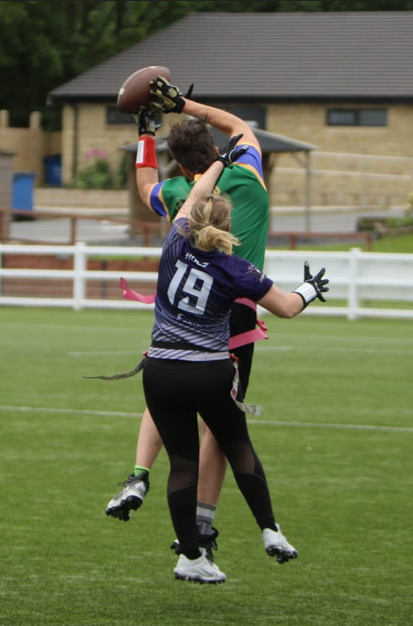
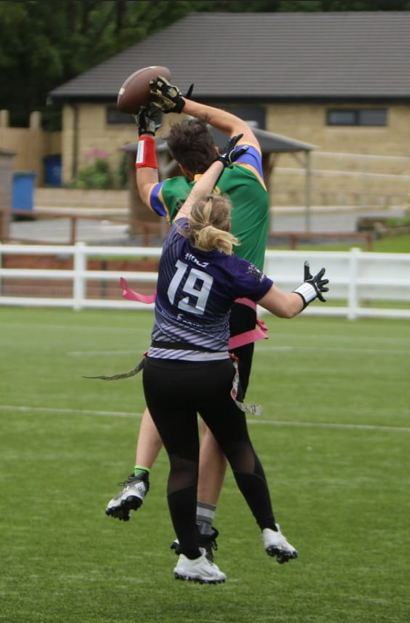
4 column pics added and formatted

diff --git a/derbyshire-ducks/src/comps/ColumnPics.jsx b/derbyshire-ducks/src/comps/ColumnPics.jsx
@@ -1,24 +1,29 @@
 import column1 from "../assets/ducks_pics/column1.png";
 import column2 from "../assets/ducks_pics/column2.png";
 import column3 from "../assets/ducks_pics/column3.jpg";
-
+import column4 from "../assets/ducks_pics/column4.png";
 export default function ColumnPics() {
   return (
     <div className="picsContainer">
       <img
         className="columnPic pic1"
-        alt="ducks team column"
+        alt="ducks team column 1"
         src={column1}
       ></img>
       <img
         className="columnPic pic2"
-        alt="ducks team column"
+        alt="ducks team column 2 "
         src={column2}
       ></img>
       <img
         className="columnPic pic3"
-        alt="ducks team column"
+        alt="ducks team column 3"
         src={column3}
+      ></img>
+      <img
+        className="columnPic pic4"
+        alt="ducks team column 4"
+        src={column4}
       ></img>
     </div>
   );

diff --git a/derbyshire-ducks/src/App.css b/derbyshire-ducks/src/App.css
@@ -91,6 +91,11 @@
   width: 100%;
 }
 
+.columnPic {
+  width: 25%;
+  height: auto;
+}
+
 @media (max-width: 431px) {
   .headerDiv {
     grid-template-columns: 1fr;
